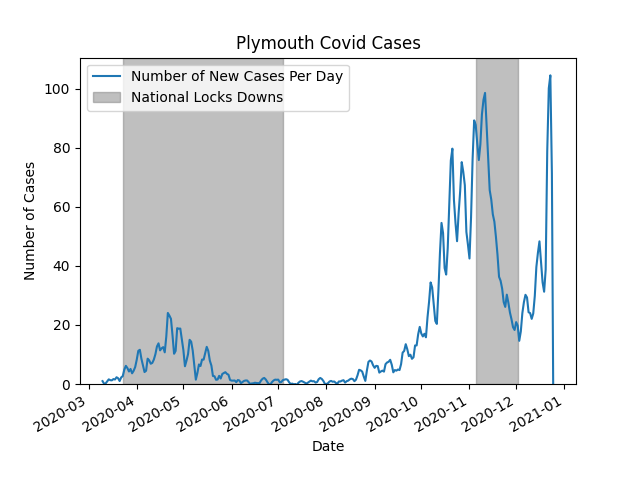
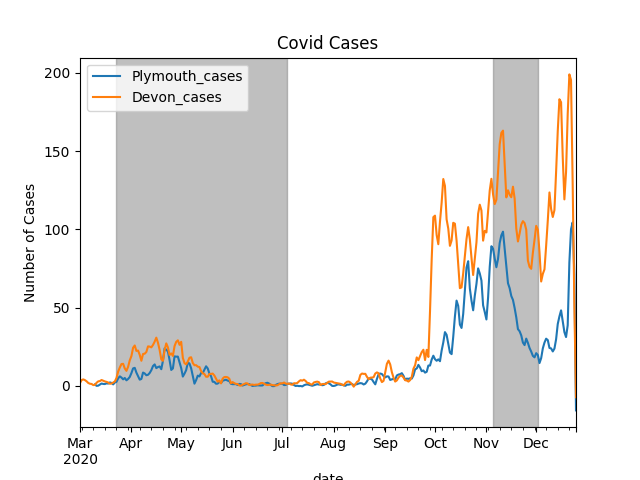
plot from data frame, and include devon cases

diff --git a/main.py b/main.py
@@ -1,52 +1,64 @@
-#! /usr/local/opt/python/libexec/bin/python
+#!/usr/local/opt/python/libexec/bin/python
 
 import json
 import matplotlib.pyplot as plt
 import requests
 import numpy as np
+import pandas as pd
+from scipy.signal import savgol_filter
+
 import datetime
 
+url = {}
+population = {}
 
-plym_url = 'https://api.coronavirus.data.gov.uk/v1/data?filters=areaType=utla;areaName=Plymouth&structure=%7B%22areaType%22:%22areaType%22,%22areaName%22:%22areaName%22,%22areaCode%22:%22areaCode%22,%22date%22:%22date%22,%22newCasesBySpecimenDate%22:%22newCasesBySpecimenDate%22,%22cumCasesBySpecimenDate%22:%22cumCasesBySpecimenDate%22%7D&format=json'
 lockdowns = [(datetime.date(2020,11,5),datetime.date(2020,12,2)), (datetime.date(2020,3,23),datetime.date(2020,7,4)),]
 verbose = False
 
-def fetch_data():
-	post_return = requests.get(plym_url)
-	post_data = json.loads(post_return.text)
-	# print(post_data)
-	return post_data
 
-def parse_data(data):
-	date_data = [datetime.datetime.fromisoformat(d['date']) for d in data]
-	cases_data = [d['newCasesBySpecimenDate'] for d in data]
+def init_urls():
+	url['Plymouth'] = 'https://api.coronavirus.data.gov.uk/v1/data?filters=areaType=utla;areaName=Plymouth&structure=%7B%22areaType%22:%22areaType%22,%22areaName%22:%22areaName%22,%22areaCode%22:%22areaCode%22,%22date%22:%22date%22,%22newCasesBySpecimenDate%22:%22newCasesBySpecimenDate%22,%22cumCasesBySpecimenDate%22:%22cumCasesBySpecimenDate%22%7D&format=json'
+	url['Devon'] = 'https://api.coronavirus.data.gov.uk/v1/data?filters=areaType=utla;areaName=Devon&structure=%7B%22areaType%22:%22areaType%22,%22areaName%22:%22areaName%22,%22areaCode%22:%22areaCode%22,%22date%22:%22date%22,%22newCasesBySpecimenDate%22:%22newCasesBySpecimenDate%22,%22cumCasesBySpecimenDate%22:%22cumCasesBySpecimenDate%22%7D&format=json'
+	# url['England'] = 'https://api.coronavirus.data.gov.uk/v1/data?filters=areaType=nation;areaName=England&structure=%7B%22areaType%22:%22areaType%22,%22areaName%22:%22areaName%22,%22areaCode%22:%22areaCode%22,%22date%22:%22date%22,%22newCasesBySpecimenDate%22:%22newCasesBySpecimenDate%22,%22cumCasesBySpecimenDate%22:%22cumCasesBySpecimenDate%22%7D&format=json'
+
+def fetch_data(region):
+	post_return = requests.get(url[region])
+	post_data = json.loads(post_return.text)
 	if verbose:
-		for date,case in sorted(zip(date_data, cases_data), key = lambda x: x[0]):
-			print(date,case)
-	cases_data = average_smoothing(cases_data, window_size=7)
-	return(date_data, cases_data)
+		print(post_data)
+	return post_data['data']
+
+def fetch_parse_data(region):
+	post_data = fetch_data(region)
+	df_data = {}
+	df_data['date'] = [datetime.datetime.fromisoformat(d['date']) for d in post_data]
+	cases = [d['newCasesBySpecimenDate'] for d in post_data]
+	df_data[region+'_cases'] = average_smoothing(cases, window_size=7)
+	df = pd.DataFrame(data=df_data)
+	if verbose:
+		print(df)
+	return(df)
 
 def average_smoothing(y, window_size=3):
-	from scipy.signal import savgol_filter
 	return savgol_filter(y, window_size, 3)
 
-def plot_data(data, highlights, output_figure='images/plymouth_covid_graph.png'):
-	plt.plot(data[0], data[1])
-	plt.xticks(rotation=45)
+def plot_data(df, highlights=lockdowns, output_figure='images/plymouth_covid_graph.png'):
+	df.plot(x='date')
 	for h in highlights:
 		plt.axvspan(h[0], h[1], color='grey', alpha=0.5)
-	plt.ylim(bottom=0)
-	plt.xlabel('Date') 
 	plt.ylabel('Number of Cases') 
-	plt.title('Plymouth Covid Cases')
-	plt.legend(["Number of New Cases Per Day", "National Locks Downs"]);
-	plt.gcf().autofmt_xdate()
+	plt.title('Covid Cases')
 	plt.savefig(output_figure)
 
 def main():
-	data = fetch_data()
-	data = parse_data(data['data'])
-	plot_data(data, lockdowns)
+	df = pd.DataFrame(data={'date':[]})
+	data = {}
+	init_urls()
+
+	for region in url:
+		data[region] = fetch_parse_data(region)
+		df = (pd.merge(df, data[region], on='date', how='outer'))
+	plot_data(df)
 
 if __name__ == "__main__":
 	main()
